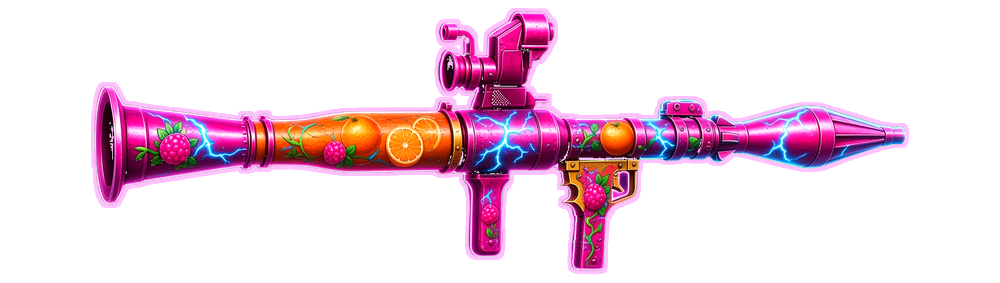
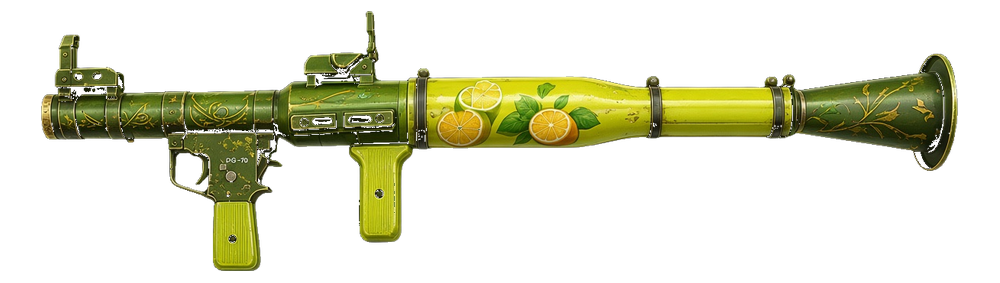
Redraw RPG-7 orchard as lemon-lime matching classic silhouette.

diff --git a/src/app/profile-v2.css b/src/app/profile-v2.css
@@ -1500,8 +1500,8 @@ body.has-profile-bg .shell:has(.profile-page) {
   width: 94%;
   transform: scaleX(-1);
   filter:
-    drop-shadow(0 0 3px rgba(180, 130, 255, 0.7))
-    drop-shadow(0 0 8px rgba(52, 211, 153, 0.35));
+    drop-shadow(0 0 3px rgba(250, 204, 21, 0.65))
+    drop-shadow(0 0 8px rgba(132, 204, 22, 0.4));
   transition: filter 0.15s ease, transform 0.15s ease;
 }
 .profile-patch-tile[data-patch-id="creator-rpg7-orchard-harvest"]:hover
@@ -1512,8 +1512,8 @@ body.has-profile-bg .shell:has(.profile-page) {
   .profile-patch-tile-art {
   transform: scaleX(-1) scale(1.06);
   filter:
-    drop-shadow(0 0 5px rgba(210, 170, 255, 0.9))
-    drop-shadow(0 0 12px rgba(52, 211, 153, 0.5))
+    drop-shadow(0 0 5px rgba(254, 240, 138, 0.9))
+    drop-shadow(0 0 12px rgba(163, 230, 53, 0.55))
     brightness(1.06);
 }
 

diff --git a/src/app/globals.css b/src/app/globals.css
@@ -1811,8 +1811,8 @@ body:has(.public-rating-page) {
 .nick-patch-mark[data-patch-id="creator-rpg7-orchard-harvest"]
   .nick-patch-mark-art {
   filter:
-    drop-shadow(0 0 3px rgba(180, 130, 255, 0.7))
-    drop-shadow(0 0 8px rgba(52, 211, 153, 0.35));
+    drop-shadow(0 0 3px rgba(250, 204, 21, 0.65))
+    drop-shadow(0 0 8px rgba(132, 204, 22, 0.4));
 }
 .nick-patch-mark[data-patch-id="creator-rpg7-orchard-harvest"]:hover
   .nick-patch-mark-art,
@@ -1822,8 +1822,8 @@ body:has(.public-rating-page) {
   .nick-patch-mark-art {
   transform: scaleX(-1) scale(1.08);
   filter:
-    drop-shadow(0 0 5px rgba(210, 170, 255, 0.9))
-    drop-shadow(0 0 12px rgba(52, 211, 153, 0.5))
+    drop-shadow(0 0 5px rgba(254, 240, 138, 0.9))
+    drop-shadow(0 0 12px rgba(163, 230, 53, 0.55))
     brightness(1.08)
     saturate(1.08);
 }

diff --git a/src/lib/profilePatches.ts b/src/lib/profilePatches.ts
@@ -186,7 +186,7 @@ export function profilePatchUrl(
       : id === "creator-event-scar-lemon" || id === "creator-event-saiga-apple"
         ? "?v=fs6"
         : id === "creator-rpg7-orchard-harvest"
-          ? "?v=orch3"
+          ? "?v=orch4"
         : id.startsWith("bd-faction-")
           ? "?v=bd9"
           : "";
